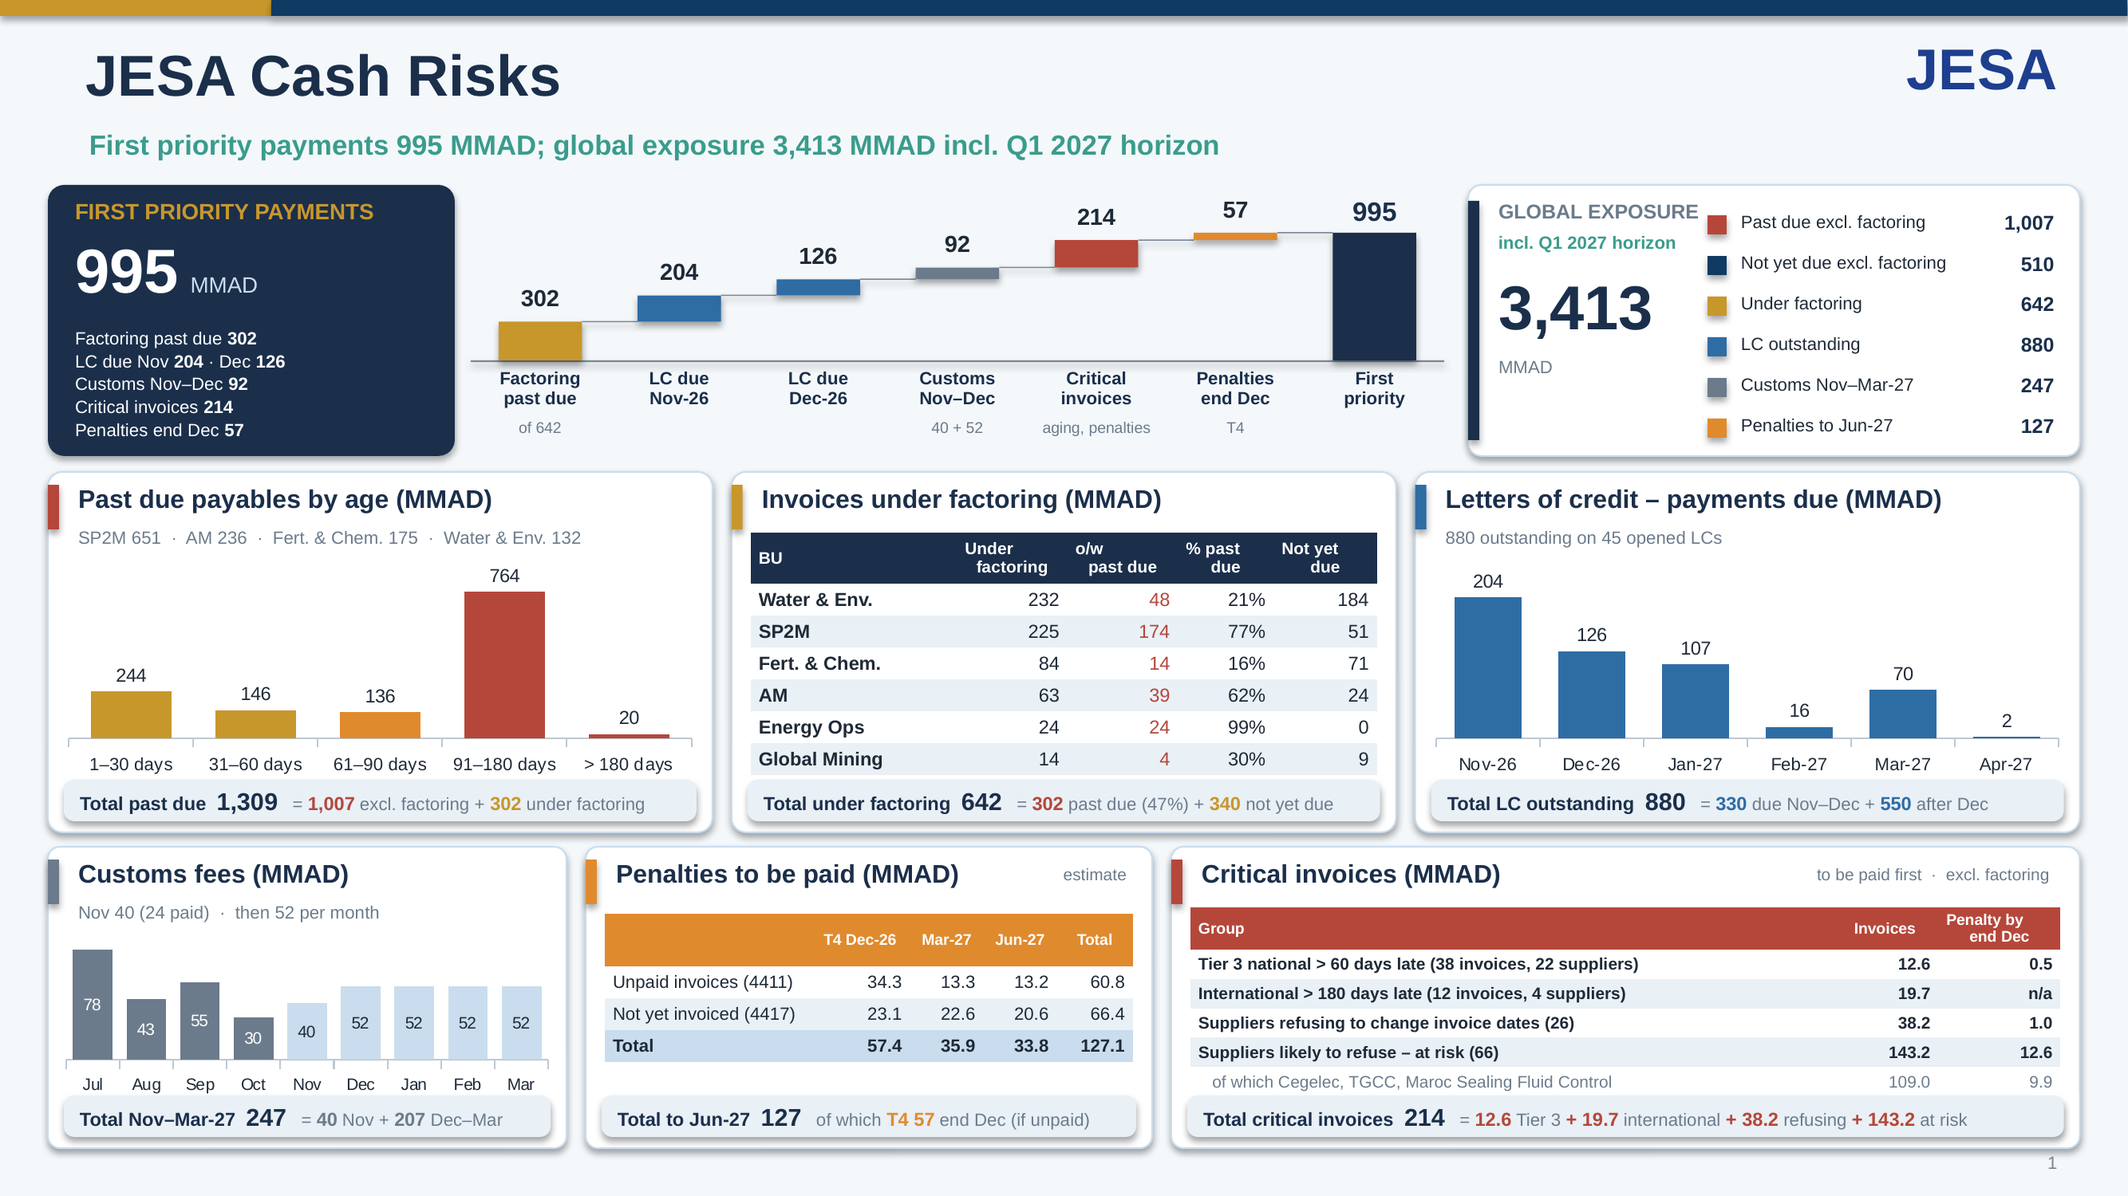
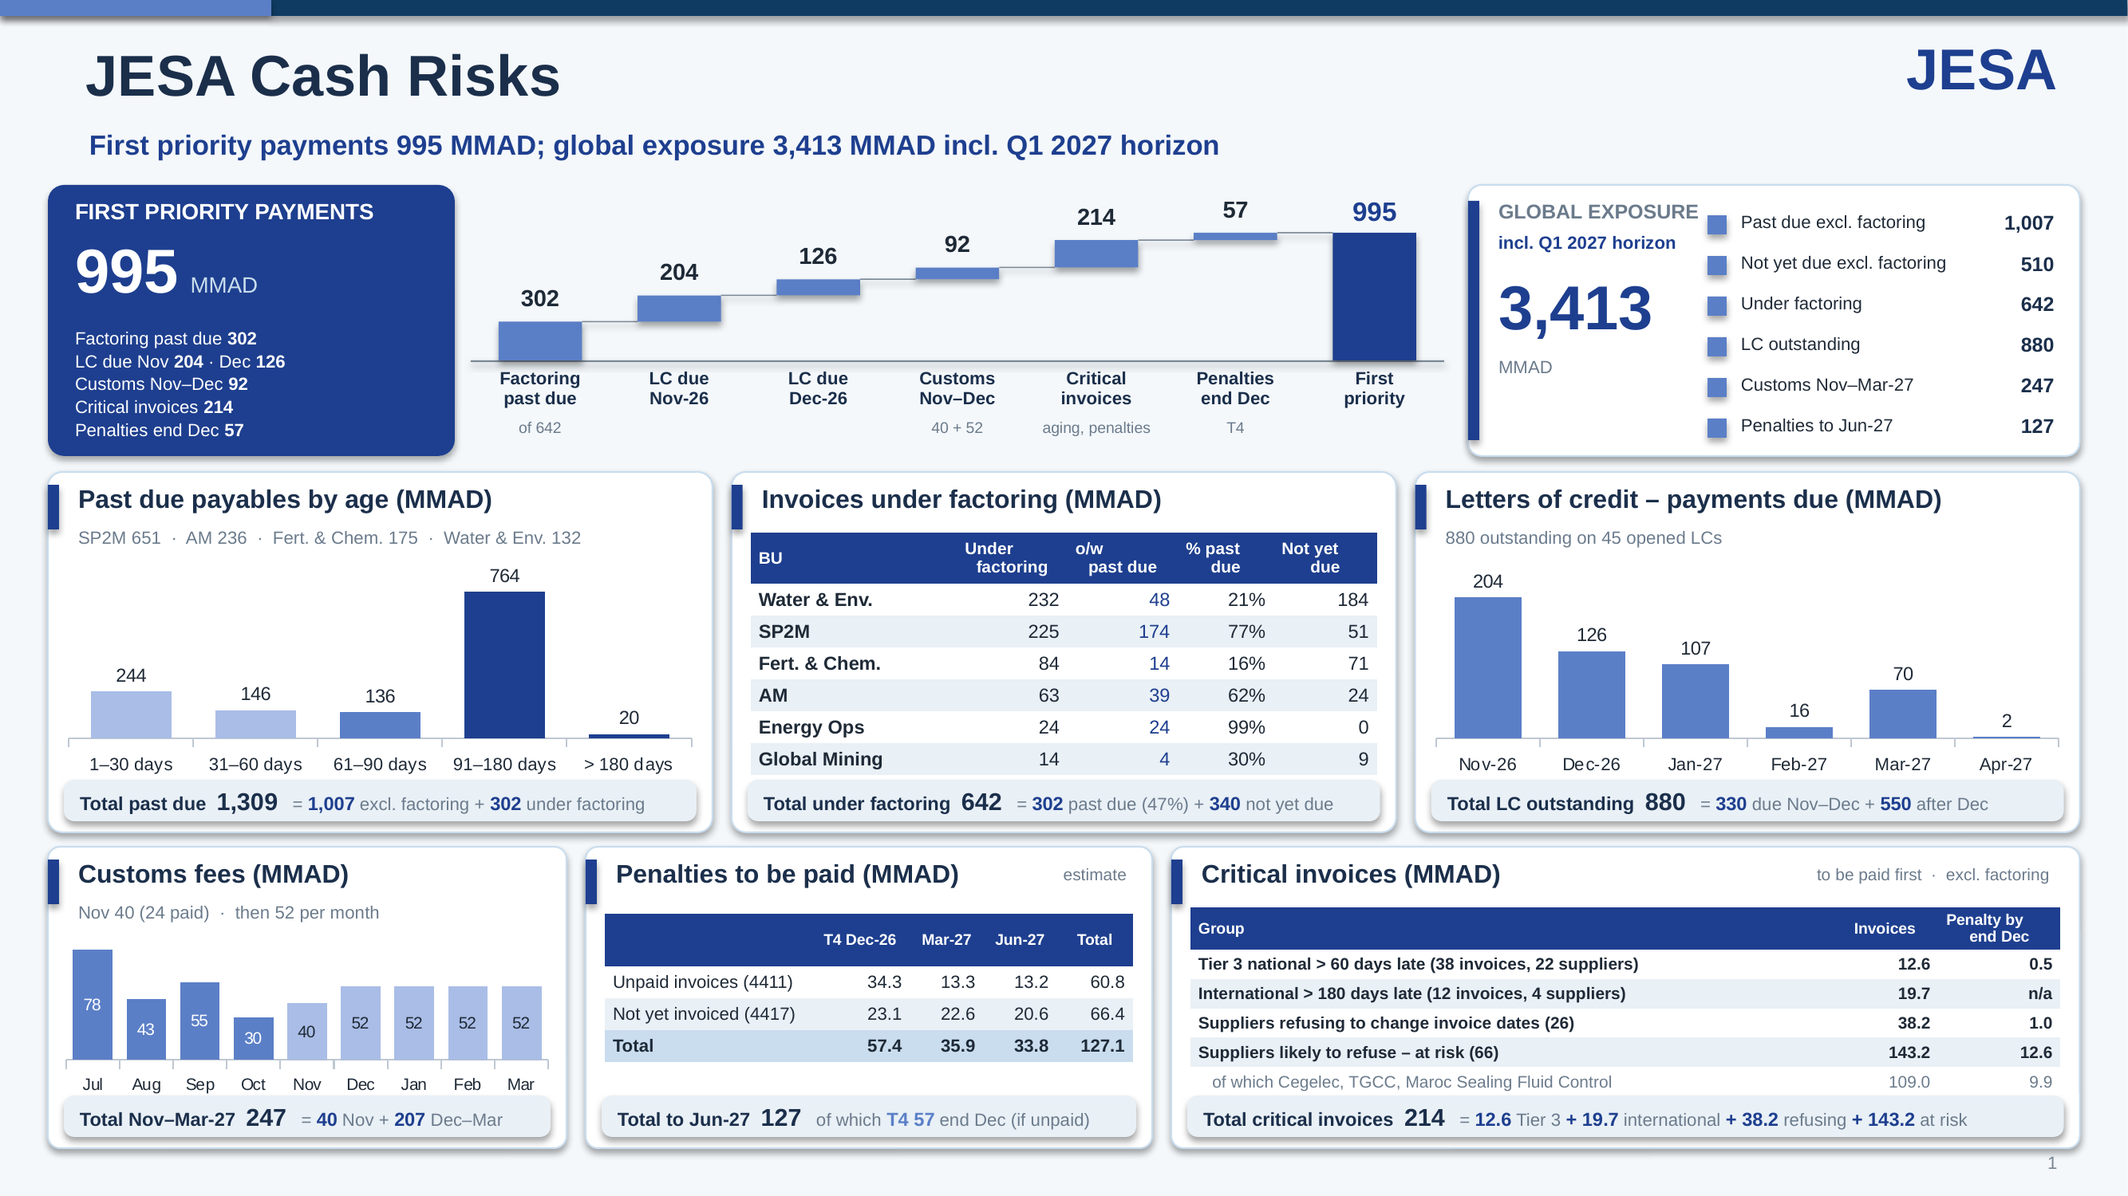
Cash risks slide: JESA blue theme
Claude-Session: https://claude.ai/code/session_01GRGYp2p9fdXmxQMcLgyM1e

diff --git a/weekly-ar-cash-deck/build_deck.py b/weekly-ar-cash-deck/build_deck.py
@@ -1474,6 +1474,7 @@ def build(data, meta, out):
     # ------------------------------------------------------------------ 7b. Zoom per business unit
     # ------------------------------------------------------------------ 13b. Cash risks dashboard (payables, factoring, LC, customs, penalties) – one slide
     D.section = "risk"
+    JB, JB2, JB3 = RGBColor(0x1E, 0x3F, 0x8F), RGBColor(0x5B, 0x7F, 0xC7), RGBColor(0xA9, 0xBD, 0xE6)   # this slide stays in the blues of the JESA logo, plus greys
     if api:
         r_inv = sum((r["open_invoices"] or 0) for r in api); r_pd = sum((r["past_due"] or 0) for r in api)
         r_f = sum((r.get("factoring") or 0) for r in api); r_fpd = sum((r.get("factoring_past_due") or 0) for r in api)
@@ -1530,7 +1531,9 @@ def build(data, meta, out):
         pinv = meta.get("ap_penalty_priority_invoices"); pinv = float(pinv) if pinv not in (None, "", "None") else (crit_tot if crit_rows else None)
         _im0 = r_fpd + sum(mt[m] for m in months[:2]) + cus_cur + (cus_avg if proj_m else 0) + (pen_t4 or 0) + (pinv or 0)
         hz = f"incl. Q1 {_ad.year + (1 if _ad.month > 3 else 0)} horizon"
-        s = D.slide("JESA Cash Risks", f"First priority payments {f0(_im0)} MMAD; global exposure {f0(expo)} MMAD {hz}")
+        s = D.slide("JESA Cash Risks")
+        rect(s, 0, 0, 1.7, 0.1, JB2)   # top band in blue on this slide
+        tb(s, 0.52, 0.78, 10.5, 0.35, f"First priority payments {f0(_im0)} MMAD; global exposure {f0(expo)} MMAD {hz}", size=12.5, bold=True, color=JB)
         # ---- top: first priority (imminent payments, waterfall) and the global exposure
         ty, th = 1.16, 1.7
         def _ml(m): return dt.date.fromisoformat(str(m)[:7] + "-01").strftime("%b")
@@ -1538,17 +1541,17 @@ def build(data, meta, out):
         cus_im = cus_cur + (cus_avg if proj_m else 0)   # customs of the same two months: paid to date in the month in progress + next month at the average
         imm = r_fpd + sum(v for _, v in lc_im) + cus_im + (pinv or 0)
         imm += (pen_t4 or 0)   # penalties to be paid at the first payment date (end of December)
-        rect(s, 0.3, ty, 2.55, th, NAVY, shape=MSO_SHAPE.ROUNDED_RECTANGLE, radius=0.06)
-        tb(s, 0.43, ty + 0.06, 2.35, 0.22, "FIRST PRIORITY PAYMENTS", size=10, bold=True, color=GOLD)
+        rect(s, 0.3, ty, 2.55, th, JB, shape=MSO_SHAPE.ROUNDED_RECTANGLE, radius=0.06)
+        tb(s, 0.43, ty + 0.06, 2.35, 0.22, "FIRST PRIORITY PAYMENTS", size=10, bold=True, color=WHITE)
         tb(s, 0.43, ty + 0.27, 2.35, 0.52, [[(f0(imm), {"size": 28, "bold": True, "color": WHITE}), ("  MMAD", {"size": 10, "color": LBLUE})]])
         tb(s, 0.43, ty + 0.86, 2.35, 0.86, [[("Factoring past due ", {}), (f0(r_fpd), {"bold": True})],
                                             [("LC due ", {})] + [x for j, (m, v) in enumerate(lc_im) for x in (((" · ", {}),) if j else ()) + ((f"{_ml(m)} ", {}), (f0(v), {"bold": True}))],
                                             [(f"Customs {com}–{proj_m[0] if proj_m else com} ", {}), (f0(cus_im), {"bold": True})],
                                             [("Critical invoices ", {}), ((f0(pinv) if pinv is not None else "–"), {"bold": True})],
                                             [(f"Penalties end {pen_when[:3]} ", {}), ((f0(pen_t4) if pen_t4 is not None else "–"), {"bold": True})]], size=8, color=WHITE, line_spacing=1.08)
-        wcat = [("Factoring\npast due", f"of {f0(r_f)}", r_fpd, GOLD)] + [(f"LC due\n{_ml(m)}-{str(m)[2:4]}", "", v, BLUE) for m, v in lc_im] + \
-               [(f"Customs\n{com}–{proj_m[0] if proj_m else com}", (f"{f0(cus_cur)} + {f0(cus_avg)}" if proj_m else ""), cus_im, SLATE),
-                ("Critical\ninvoices", "aging, penalties", pinv, RED), (f"Penalties\nend {pen_when[:3]}", "T4", pen_t4, ORANGE), ("First\npriority", "", imm, NAVY)]
+        wcat = [("Factoring\npast due", f"of {f0(r_f)}", r_fpd, JB2)] + [(f"LC due\n{_ml(m)}-{str(m)[2:4]}", "", v, JB2) for m, v in lc_im] + \
+               [(f"Customs\n{com}–{proj_m[0] if proj_m else com}", (f"{f0(cus_cur)} + {f0(cus_avg)}" if proj_m else ""), cus_im, JB2),
+                ("Critical\ninvoices", "aging, penalties", pinv, JB2), (f"Penalties\nend {pen_when[:3]}", "T4", pen_t4, JB2), ("First\npriority", "", imm, JB)]
         wx, ww = 2.95, 6.1; n_ = len(wcat); slot = ww / n_; bwid = slot * 0.6; base_y = ty + th - 0.6; top_y = ty + 0.3; sc = (base_y - top_y) / (imm or 1)
         rect(s, wx, base_y, ww, 0.012, GREY); run = 0.0
         for i, (lab, sub, v, col) in enumerate(wcat):
@@ -1559,27 +1562,27 @@ def build(data, meta, out):
                 tb(s, bx - 0.2, y_bot - 0.38, bwid + 0.4, 0.24, "–", size=11, bold=True, color=col, align=PP_ALIGN.CENTER)
             else:
                 rect(s, bx, y_top, bwid, max(y_bot - y_top, 0.02), col)
-                tb(s, bx - 0.2, y_top - 0.26, bwid + 0.4, 0.24, f0(v), size=(12 if last else 10.5), bold=True, color=(NAVY if last else DARK), align=PP_ALIGN.CENTER)
+                tb(s, bx - 0.2, y_top - 0.26, bwid + 0.4, 0.24, f0(v), size=(12 if last else 10.5), bold=True, color=(JB if last else DARK), align=PP_ALIGN.CENTER)
                 if not last: run += v
             if not last: rect(s, bx + bwid, base_y - run * sc - 0.004, slot - bwid, 0.008, GREY)   # connector to the next bar
             tb(s, wx + i * slot - 0.03, base_y + 0.03, slot + 0.06, 0.34, lab.split("\n"), size=8, bold=True, color=NAVY, align=PP_ALIGN.CENTER, margin=0.0, line_spacing=0.95)
             if sub: tb(s, wx + i * slot - 0.03, base_y + 0.34, slot + 0.06, 0.18, sub, size=7, color=SLATE, align=PP_ALIGN.CENTER, margin=0.0)
         # global exposure: one box, by category
         gx_ = wx + ww + 0.15; gw_ = SW - 0.3 - gx_
-        rect(s, gx_, ty, gw_, th, WHITE, line=LBLUE, shape=MSO_SHAPE.ROUNDED_RECTANGLE, radius=0.05); rect(s, gx_, ty + 0.1, 0.07, th - 0.2, NAVY)
+        rect(s, gx_, ty, gw_, th, WHITE, line=LBLUE, shape=MSO_SHAPE.ROUNDED_RECTANGLE, radius=0.05); rect(s, gx_, ty + 0.1, 0.07, th - 0.2, JB)
         tb(s, gx_ + 0.15, ty + 0.07, 1.35, 0.24, "GLOBAL EXPOSURE", size=9, bold=True, color=SLATE)
-        tb(s, gx_ + 0.15, ty + 0.27, 1.4, 0.2, hz, size=8, bold=True, color=TEAL)
-        tb(s, gx_ + 0.15, ty + 0.5, 1.45, 0.5, f0(expo), size=28, bold=True, color=NAVY)
+        tb(s, gx_ + 0.15, ty + 0.27, 1.4, 0.2, hz, size=8, bold=True, color=JB)
+        tb(s, gx_ + 0.15, ty + 0.5, 1.45, 0.5, f0(expo), size=28, bold=True, color=JB)
         tb(s, gx_ + 0.15, ty + 1.05, 1.45, 0.5, ["MMAD" + ("" if pen_tot is not None else ","), ("" if pen_tot is not None else "before penalties")], size=8, color=SLATE, line_spacing=1.0)
-        grow = [("Past due excl. factoring", r_pd - r_fpd, RED), ("Not yet due excl. factoring", (r_inv - r_pd) - (r_f - r_fpd), NAVY2), ("Under factoring", r_f, GOLD),
-                ("LC outstanding", lc_all, BLUE), (f"Customs {com}–{mar_lab}", cus_expo, SLATE), (pen_lab, pen_tot, ORANGE)]
+        grow = [("Past due excl. factoring", r_pd - r_fpd, JB), ("Not yet due excl. factoring", (r_inv - r_pd) - (r_f - r_fpd), JB), ("Under factoring", r_f, JB2),
+                ("LC outstanding", lc_all, JB2), (f"Customs {com}–{mar_lab}", cus_expo, SLATE), (pen_lab, pen_tot, JB2)]
         rx = gx_ + 1.5; rw = gw_ - 1.5 - 0.12
         for k, (lab, v, col) in enumerate(grow):
             ry = ty + 0.14 + k * 0.255
-            rect(s, rx, ry + 0.05, 0.12, 0.12, col); tb(s, rx + 0.17, ry, rw - 0.72, 0.22, lab, size=8, color=DARK)
+            rect(s, rx, ry + 0.05, 0.12, 0.12, JB2); tb(s, rx + 0.17, ry, rw - 0.72, 0.22, lab, size=8, color=DARK)
             tb(s, rx + rw - 0.6, ry, 0.6, 0.22, (f0(v) if v is not None else "–"), size=9, bold=True, color=NAVY, align=PP_ALIGN.RIGHT)
-        def panel(x, y, w, h, title, sub=None, accent=NAVY2):
-            rect(s, x, y, w, h, WHITE, line=LBLUE, shape=MSO_SHAPE.ROUNDED_RECTANGLE, radius=0.04); rect(s, x, y + 0.08, 0.07, 0.28, accent)
+        def panel(x, y, w, h, title, sub=None, accent=JB):
+            rect(s, x, y, w, h, WHITE, line=LBLUE, shape=MSO_SHAPE.ROUNDED_RECTANGLE, radius=0.04); rect(s, x, y + 0.08, 0.07, 0.28, JB)
             tb(s, x + 0.15, y + 0.05, w - 0.3, 0.28, title, size=11.5, bold=True, color=NAVY)
             if sub: tb(s, x + 0.15, y + 0.32, w - 0.3, 0.24, sub, size=8, color=SLATE)
         def total_strip(x, y, w, h, label, value, link):
@@ -1591,50 +1594,50 @@ def build(data, meta, out):
         pw = (SW - 0.6 - 0.24) / 3; y1 = ty + th + 0.1; h1 = 2.26; y2 = y1 + h1 + 0.09; h2 = SH - 0.3 - y2
         x1, x2, x3 = 0.3, 0.3 + pw + 0.12, 0.3 + 2 * (pw + 0.12)
         # ---- 1. payables: past due by age
-        panel(x1, y1, pw, h1, "Past due payables by age (MMAD)", "  ·  ".join(f"{short(r['bu'])} {f0(r['past_due'])}" for r in sorted(api, key=lambda r: -(r["past_due"] or 0))[:4]), RED)
-        ch = bar_chart(s, x1 + 0.05, y1 + 0.56, pw - 0.1, h1 - 0.6 - ST, [str(r["bucket"]) for r in r_ag], [("Past due", [(r["amount"] or 0) for r in r_ag])], [NAVY2], legend=False, gap=55, cat_size=8, label_size=8.5, label_pos=XL_LABEL_POSITION.OUTSIDE_END)
-        color_points(ch, 0, [GOLD, GOLD, ORANGE, RED, RED][:len(r_ag)])
-        total_strip(x1, y1, pw, h1, "Total past due", f0(r_pd), [("= ", {}), B(f0(r_pd - r_fpd), RED), (" excl. factoring + ", {}), B(f0(r_fpd), GOLD), (" under factoring", {})])
+        panel(x1, y1, pw, h1, "Past due payables by age (MMAD)", "  ·  ".join(f"{short(r['bu'])} {f0(r['past_due'])}" for r in sorted(api, key=lambda r: -(r["past_due"] or 0))[:4]), JB)
+        ch = bar_chart(s, x1 + 0.05, y1 + 0.56, pw - 0.1, h1 - 0.6 - ST, [str(r["bucket"]) for r in r_ag], [("Past due", [(r["amount"] or 0) for r in r_ag])], [JB], legend=False, gap=55, cat_size=8, label_size=8.5, label_pos=XL_LABEL_POSITION.OUTSIDE_END)
+        color_points(ch, 0, [JB3, JB3, JB2, JB, JB][:len(r_ag)])
+        total_strip(x1, y1, pw, h1, "Total past due", f0(r_pd), [("= ", {}), B(f0(r_pd - r_fpd), JB), (" excl. factoring + ", {}), B(f0(r_fpd), JB), (" under factoring", {})])
         # ---- 2. invoices under factoring, with the past due part
-        panel(x2, y1, pw, h1, "Invoices under factoring (MMAD)", None, GOLD)
+        panel(x2, y1, pw, h1, "Invoices under factoring (MMAD)", None, JB2)
         fr = sorted([r for r in api if (r.get("factoring") or 0) > 0.5], key=lambda r: -(r.get("factoring") or 0))
         rows = [[short(r["bu"]), f0(r["factoring"]), f0(r.get("factoring_past_due")), f"{(r.get('factoring_past_due') or 0)/(r['factoring'] or 1)*100:.0f}%", f0((r["factoring"] or 0) - (r.get("factoring_past_due") or 0))] for r in fr]
         table(s, x2 + 0.12, y1 + 0.38, pw - 0.24, ["BU", "Under\nfactoring", "o/w\npast due", "% past\ndue", "Not yet\ndue"], rows, col_w=[1.4, 0.75, 0.75, 0.65, 0.7], font_size=8.5, header_size=7.5, row_h=0.2, header_h=0.32,
-              colors={(i, 2): RED for i in range(len(rows))}, first_col_bold=True)
-        total_strip(x2, y1, pw, h1, "Total under factoring", f0(r_f), [("= ", {}), B(f0(r_fpd), RED), (f" past due ({r_fpd/(r_f or 1)*100:.0f}%) + ", {}), B(f0(r_f - r_fpd), GOLD), (" not yet due", {})])
+              colors={(i, 2): JB for i in range(len(rows))}, first_col_bold=True, header_fill=JB)
+        total_strip(x2, y1, pw, h1, "Total under factoring", f0(r_f), [("= ", {}), B(f0(r_fpd), JB), (f" past due ({r_fpd/(r_f or 1)*100:.0f}%) + ", {}), B(f0(r_f - r_fpd), JB), (" not yet due", {})])
         # ---- 3. letters of credit: payments due by month
         lm = months[:6]
-        panel(x3, y1, pw, h1, "Letters of credit – payments due (MMAD)", f"{f0(lc_all)} outstanding on {n_lc} opened LCs", BLUE)
-        bar_chart(s, x3 + 0.05, y1 + 0.56, pw - 0.1, h1 - 0.6 - ST, [dt.date.fromisoformat(str(m)[:7] + "-01").strftime("%b-%y") for m in lm], [("LC payments", [mt[m] for m in lm])], [BLUE], legend=False, gap=55, cat_size=8, label_size=8.5, label_pos=XL_LABEL_POSITION.OUTSIDE_END)
+        panel(x3, y1, pw, h1, "Letters of credit – payments due (MMAD)", f"{f0(lc_all)} outstanding on {n_lc} opened LCs", JB2)
+        bar_chart(s, x3 + 0.05, y1 + 0.56, pw - 0.1, h1 - 0.6 - ST, [dt.date.fromisoformat(str(m)[:7] + "-01").strftime("%b-%y") for m in lm], [("LC payments", [mt[m] for m in lm])], [JB2], legend=False, gap=55, cat_size=8, label_size=8.5, label_pos=XL_LABEL_POSITION.OUTSIDE_END)
         lc6 = sum(mt[m] for m in lm)
         _l2 = sum(mt[m] for m in months[:2])
-        total_strip(x3, y1, pw, h1, "Total LC outstanding", f0(lc_all), [("= ", {}), B(f0(_l2), BLUE), (f" due {_ml(months[0])}–{_ml(months[1])} + ", {}), B(f0(lc_all - _l2), BLUE), (f" after {_ml(months[1])}", {})])
+        total_strip(x3, y1, pw, h1, "Total LC outstanding", f0(lc_all), [("= ", {}), B(f0(_l2), JB), (f" due {_ml(months[0])}–{_ml(months[1])} + ", {}), B(f0(lc_all - _l2), JB), (f" after {_ml(months[1])}", {})])
         # ---- 4. customs fees: paid and projected
         wA, wB = 3.25, 3.55; wC = SW - 0.6 - 0.24 - wA - wB; xA, xB = 0.3, 0.3 + wA + 0.12; xC = xB + wB + 0.12
         panel(xA, y2, wA, h2, "Customs fees (MMAD)", ((f"{com} {f0(cus_cur)} ({f0(cus_m[-1][1])} paid)  ·  " if cus_est not in (None, "") else "") + f"then {f0(cus_avg)} per month" if proj_m else f"Paid since July {f0(cus_tot)}"), SLATE)
         ccats = [m for m, _ in cus_m] + proj_m
-        total_strip(xA, y2, wA, h2, f"Total {com}–{mar_lab}", f0(cus_expo), [("= ", {}), B(f0(cus_cur), SLATE), (f" {com} + ", {}), B(f0(cus_proj), SLATE), (f" {proj_m[0]}–{proj_m[-1]}" if proj_m else "", {})])
+        total_strip(xA, y2, wA, h2, f"Total {com}–{mar_lab}", f0(cus_expo), [("= ", {}), B(f0(cus_cur), JB), (f" {com} + ", {}), B(f0(cus_proj), JB), (f" {proj_m[0]}–{proj_m[-1]}" if proj_m else "", {})])
         ch = bar_chart(s, xA + 0.05, y2 + 0.52, wA - 0.1, h2 - 0.54 - ST, ccats,
                        ([("Paid", [v for _, v in cus_m[:-1]] + [0] * (len(proj_m) + 1)), ("Projection", [0] * (len(cus_m) - 1) + [cus_cur] + [cus_avg] * len(proj_m))] if cus_est not in (None, "") else
-                        [("Paid", [v for _, v in cus_m] + [0] * len(proj_m)), ("Projection", [0] * len(cus_m) + [cus_avg] * len(proj_m))]), [SLATE, LBLUE], stacked=True, legend=False, gap=35, cat_size=7.5, label_size=7.5, label_colors=[WHITE, DARK])
+                        [("Paid", [v for _, v in cus_m] + [0] * len(proj_m)), ("Projection", [0] * len(cus_m) + [cus_avg] * len(proj_m))]), [JB2, JB3], stacked=True, legend=False, gap=35, cat_size=7.5, label_size=7.5, label_colors=[WHITE, DARK])
         # ---- 5. late-payment penalties by payment date (filled from the penalties file; project and non-project invoices)
-        panel(xB, y2, wB, h2, "Penalties to be paid (MMAD)", None, ORANGE)
+        panel(xB, y2, wB, h2, "Penalties to be paid (MMAD)", None, JB2)
         if pen_rows: tb(s, xB + 2.45, y2 + 0.09, wB - 2.57, 0.22, "estimate", size=7.5, color=SLATE, align=PP_ALIGN.RIGHT)
         prow = [[lab.replace("Received, not yet invoiced", "Not yet invoiced")] + [f1(x) for x in v] + [f1(sum(v))] for lab, v in pen_rows] if pen_rows else [["Unpaid invoices", "–", "–", "–", "–"], ["Received, not invoiced", "–", "–", "–", "–"]]
         prow.append(["Total"] + ([f1(x) for x in pen_q] + [f1(pen_tot)] if pen_q else ["–"] * 4))
         table(s, xB + 0.12, y2 + 0.42, wB - 0.24, [""] + [("T4 " if j == 0 else "") + dt.date.fromisoformat(d_ + "-01").strftime("%b-%y") for j, d_ in enumerate(dues)] + ["Total"], prow,
-              col_w=[1.4, 0.68, 0.5, 0.5, 0.52], font_size=8, header_size=7, row_h=0.2, header_h=0.24, total_last=True, header_fill=ORANGE)
-        total_strip(xB, y2, wB, h2, f"Total to {pen_end}", (f0(pen_tot) if pen_tot is not None else "–"), [("of which ", {}), B("T4 " + (f0(pen_t4) if pen_t4 is not None else "–"), ORANGE), (f" end {pen_when[:3]} (if unpaid)", {})])
+              col_w=[1.4, 0.68, 0.5, 0.5, 0.52], font_size=8, header_size=7, row_h=0.2, header_h=0.24, total_last=True, header_fill=JB)
+        total_strip(xB, y2, wB, h2, f"Total to {pen_end}", (f0(pen_tot) if pen_tot is not None else "–"), [("of which ", {}), B("T4 " + (f0(pen_t4) if pen_t4 is not None else "–"), JB2), (f" end {pen_when[:3]} (if unpaid)", {})])
         # ---- 6. critical invoices: to be paid first, by aging and penalties generated
-        panel(xC, y2, wC, h2, "Critical invoices (MMAD)", None, RED)
+        panel(xC, y2, wC, h2, "Critical invoices (MMAD)", None, JB)
         tb(s, xC + 2.2, y2 + 0.09, wC - 2.35, 0.22, "to be paid first  ·  excl. factoring" + ("" if has_pen else "  ·  ranked by amount × days late"), size=7.5, color=SLATE, align=PP_ALIGN.RIGHT)
         if crit_rows:
             crow = [[lab, f1(a_), pt_] for lab, a_, pt_, _, _ in crit_rows]
             table(s, xC + 0.12, y2 + 0.38, wC - 0.24, ["Group", "Invoices", f"Penalty by\nend {pen_when[:3]}"], crow, col_w=[4.2, 0.7, 0.8], font_size=7.5, header_size=7, row_h=0.185, header_h=0.26,
-                  header_fill=RED, bold_rows=tuple(i for i, r in enumerate(crit_rows) if r[3]), colors={(i, j): SLATE for i, r in enumerate(crit_rows) if not r[4] for j in range(3)})
+                  header_fill=JB, bold_rows=tuple(i for i, r in enumerate(crit_rows) if r[3]), colors={(i, j): SLATE for i, r in enumerate(crit_rows) if not r[4] for j in range(3)})
         parts = [(a_, lab) for a_, lab in ((t3g["amount"] if t3g else 0, "Tier 3"), (ing["amount"] if ing else 0, "international"),
                                            ((pcat.get("refusing") or {}).get("amount_excl") or 0, "refusing"), ((pcat.get("at_risk") or {}).get("amount_excl") or 0, "at risk")) if (a_ or 0) > 0.05] if has_pen else []
-        total_strip(xC, y2, wC, h2, "Total critical invoices", f0(crit_tot), ([("= ", {})] + [x for j, (v, lab) in enumerate(parts) for x in ((B(("+ " if j else "") + f1(v), RED), (f" {lab} ", {})))] if parts else []))
+        total_strip(xC, y2, wC, h2, "Total critical invoices", f0(crit_tot), ([("= ", {})] + [x for j, (v, lab) in enumerate(parts) for x in ((B(("+ " if j else "") + f1(v), JB), (f" {lab} ", {})))] if parts else []))
 
     D.section = "bu"
     det = {}

diff --git a/.claude/skills/weekly-ar-deck/SKILL.md b/.claude/skills/weekly-ar-deck/SKILL.md
@@ -246,6 +246,9 @@ deck after the LC slide, only when asked). Content:
   `--customs-month <MMAD>` (26-Nov-2026: "make November customs fees 40 MDH"). It then feeds the first-priority
   waterfall, the global exposure and the customs panel, which quotes the amount paid to date next to it. It is a
   one-week figure: ask again the following week.
+- Colours (reviewer, 26-Nov-2026: "less colourful, more in the JESA logo theme"): this slide uses only the blues of
+  the JESA logo (dark blue for totals and headers, lighter blues for bars and bullets) and greys: no red, orange, gold
+  or teal, including the top band and the subtitle.
 - Each panel ends with a total band that ties it to the waterfall, in the colours of the bars (e.g. "Total past due
   1,309 = 1,007 excl. factoring + 302 under factoring"; LC = next six months + later + undated; customs = paid in the
   month + projection).
